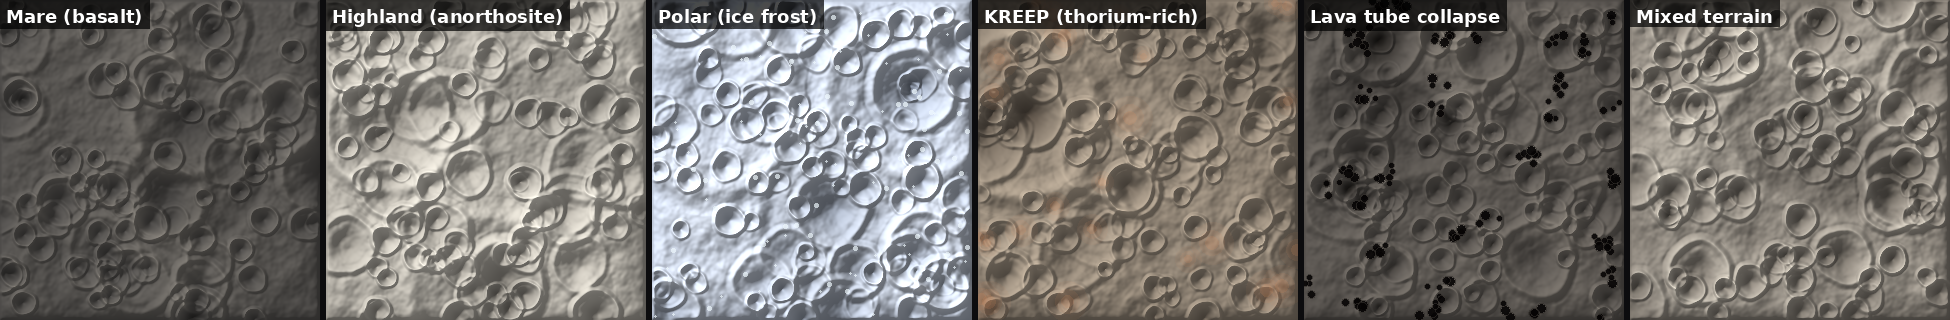
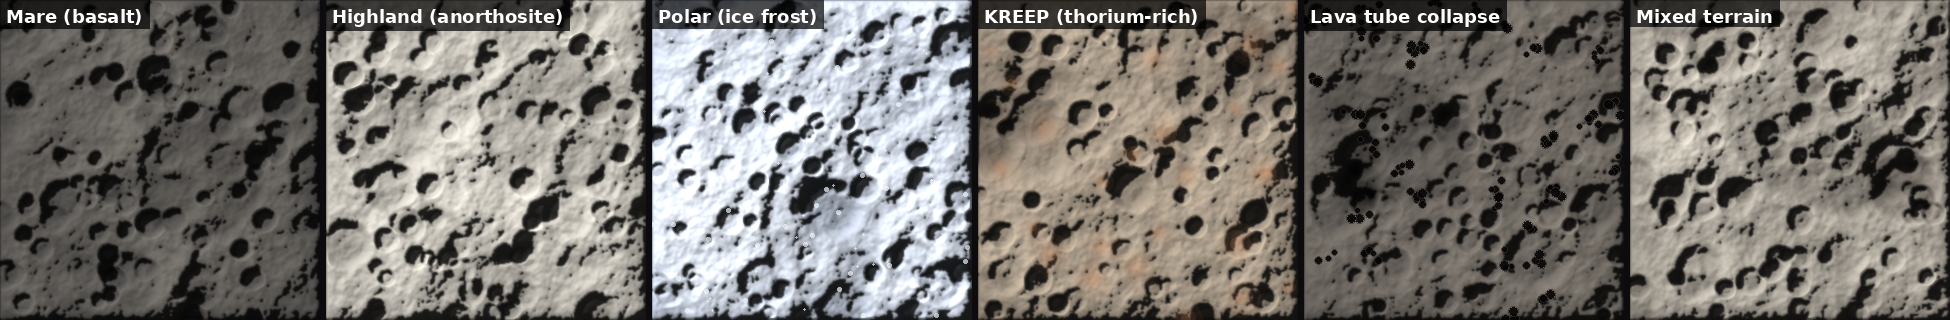
fix(prototype): realistic crater morphology + cast shadows
Cross-checked against LRO/Apollo imagery, the previous crater profile
was wrong in two ways the user correctly flagged:

  1. The raised rim was way too tall (~43% of bowl depth). Real lunar
     crater rims are barely a few percent of depth and mostly disappear
     under sun. The dominant visible feature of a crater is the *cast
     shadow* on the floor, not a ring.

  2. Crater depth had no per-crater variation. Real lunar craters
     range from shallow flat dishes (often eroded or filled) to deep
     bowls whose floors are entirely in cast shadow because the
     sun-side wall blocks direct light. The user described this as
     "the bottom of a crater is rather flat, but a different depth,
     sometimes it is so deep that its submerged in shadows."

Changes:
  * Profile: flat floor (d<0.55r) + smooth wall (0.55r..0.92r) + tiny
    rim (Gaussian peak ~0.05 of depth at d=0.96r). Old code had a
    cosine bowl with a fat 0.18-amplitude rim.
  * Per-crater depth_jitter widened to 0.30..1.20 so some craters are
    shallow flat dishes and some go fully shadowed.
  * size_factor: bigger craters trend shallower (matches lunar simple
    -> complex morphology transition).

Added cast_shadows() — a horizon ray-march toward the sun. For each
pixel it walks up the sun direction in plan view and asks whether any
sample point is high enough to occlude the sun ray. Pixels in shadow
are darkened to 22% of their lit value (not 0%; real shadowed lunar
[…]

diff --git a/prototypes/planet_visuals/generate.py b/prototypes/planet_visuals/generate.py
@@ -217,13 +217,23 @@ def sample_craters(shape, rng, count_small=220, count_med=70, count_big=14):
 
 
 def apply_craters(height, craters, rng=None):
-    """Carve craters into the height map. Each crater gets per-angle noise on
-    its rim/floor so it doesn't read as a perfect circle."""
+    """Carve craters with the geometry real lunar craters actually have:
+    flat floor + smooth wall + barely-raised rim.
+
+    Cross-checked against LRO/Apollo imagery:
+      * Depth/diameter ratio is ~1:5 for simple bowls, ~1:20 for large
+        flat-floored complex craters. We pick per crater.
+      * Rim height is only ~3-5% of crater depth, not the dominant feature.
+        (Old code had a rim 43% as tall as the bowl was deep — wrong.)
+      * The dominant visual feature is the *cast shadow*, which is
+        handled separately in `cast_shadows()`. Carving here is just
+        about getting the geometry right.
+    """
     if rng is None:
         rng = np.random.default_rng(0)
     h, w = height.shape
     for c in craters:
-        ej = 2.2
+        ej = 1.8
         x0 = max(0, int(c.cx - c.r * ej))
         x1 = min(w, int(c.cx + c.r * ej) + 1)
         y0 = max(0, int(c.cy - c.r * ej))
@@ -236,46 +246,48 @@ def apply_craters(height, craters, rng=None):
         d = np.sqrt(dx * dx + dy * dy) / c.r
         ang = np.arctan2(dy, dx)
 
-        # angular perturbation: 3 sinusoids at different freqs, random phases.
-        # amplitude grows with age (older = more eroded, irregular).
         a1, a2, a3 = rng.uniform(0, math.tau, 3)
-        irreg = (0.05 * np.sin(2 * ang + a1)
-                 + 0.04 * np.sin(3 * ang + a2)
-                 + 0.025 * np.sin(5 * ang + a3))
+        irreg = (0.04 * np.sin(2 * ang + a1)
+                 + 0.03 * np.sin(3 * ang + a2)
+                 + 0.02 * np.sin(5 * ang + a3))
         d = d * (1.0 + irreg * (0.5 + 0.5 * c.age))
 
-        # Wider rim so it survives any pre-blur. Sharp inner wall transition
-        # so the lit/shadow contrast is strong.
-        floor_mask = d < 0.75
-        rim_mask = (d >= 0.75) & (d < 1.20)
-        ejecta_mask = (d >= 1.20) & (d < ej)
-
+        # Per-crater depth variation. Wide jitter range so some craters
+        # are shallow flat dishes and some are deep enough that their
+        # floors fall into cast shadow — the variety the user asked for.
+        # Larger craters trend shallower (filled / complex morphology).
+        size_factor = 1.0 - min(0.55, (c.r - 8) / 220.0)
+        depth_jitter = rng.uniform(0.30, 1.20)
         sharp = 1.0 - c.age * 0.7
-        depth = -0.65 * sharp
-        rim = 0.28 * sharp
-        ej_h = 0.05 * sharp
+        depth_amp = -0.40 * sharp * size_factor * depth_jitter
+        # Rim is *small* — only ~5% of depth amplitude.
+        rim_amp = 0.05 * sharp * abs(depth_amp)
+
+        # Profile zones:
+        #   d in [0, 0.55]:  flat floor at depth_amp
+        #   d in [0.55, 0.92]: smooth wall rising to ground level
+        #   d in [0.92, 1.05]: tiny rim
+        #   d in [1.05, 1.8]:  subtle ejecta
+        floor_mask = d < 0.55
+        wall_mask = (d >= 0.55) & (d < 0.92)
+        rim_mask = (d >= 0.92) & (d < 1.05)
+        ejecta_mask = (d >= 1.05) & (d < ej)
 
         delta = np.zeros_like(d, dtype=np.float32)
-        # Bowl floor: rises sharply near rim (steep wall) and flattens at
-        # center. (1 - smoothstep(0..0.75, d)) gives a deep flat-ish floor.
-        fd = d[floor_mask] / 0.75
-        # invert smoothstep so center=1, edge=0
-        s = 1.0 - fd
-        floor_profile = s * s * (3.0 - 2.0 * s)
-        delta[floor_mask] = depth * floor_profile
-        # Rim profile: wider Gaussian centered just outside d=0.95 so it
-        # forms a real raised ridge. sigma=0.12 is a fat, readable rim.
+        delta[floor_mask] = depth_amp
+        wd = (d[wall_mask] - 0.55) / 0.37
+        ws = 1.0 - wd
+        delta[wall_mask] = depth_amp * (ws * ws * (3.0 - 2.0 * ws))
         rim_d = d[rim_mask]
-        rim_shape = np.exp(-((rim_d - 0.95) / 0.12) ** 2)
-        delta[rim_mask] = rim * rim_shape
-        # Ejecta: low broken bumps
+        delta[rim_mask] = rim_amp * np.exp(-((rim_d - 0.96) / 0.05) ** 2)
         ed = d[ejecta_mask]
         ea = ang[ejecta_mask]
-        ej_break = 0.5 + 0.5 * np.sin(ea * 5.0 + a1) ** 2
-        delta[ejecta_mask] = ej_h * np.exp(-((ed - 1.20) / 0.45) ** 2) * ej_break
+        ej_break = 0.3 + 0.7 * np.sin(ea * 5.0 + a1) ** 2
+        delta[ejecta_mask] = 0.020 * sharp * np.exp(
+            -((ed - 1.05) / 0.35) ** 2) * ej_break
 
-        if c.has_peak and c.r > 22 and sharp > 0.45:
-            delta += 0.18 * sharp * np.exp(-(d * 4.5) ** 2)
+        if c.has_peak and c.r > 30 and sharp > 0.5:
+            delta += 0.08 * sharp * np.exp(-(d * 5.0) ** 2)
 
         height[y0:y1, x0:x1] += delta
     return height
@@ -284,6 +296,49 @@ def apply_craters(height, craters, rng=None):
 # ---------------------------------------------------------------------------
 # Step 4 — hillshade
 # ---------------------------------------------------------------------------
+
+def cast_shadows(height, azimuth_deg=315.0, altitude_deg=35.0, z_factor=75.0,
+                 max_distance_px=70.0, step_px=1.5):
+    """Cheap horizon ray-march toward the sun. Returns a per-pixel float
+    mask: 1.0 = lit, 0.0 = fully blocked from the sun by terrain.
+
+    For each pixel, march along the sun direction in plan view; at each
+    step, ask whether the elevation there exceeds what a straight ray
+    from the pixel at the sun's altitude would have. If yes at any step,
+    the pixel is in cast shadow.
+
+    This is what makes deep crater floors go nearly black — the inner
+    wall on the sun side blocks the floor. Lambertian self-shading alone
+    can't produce that effect.
+    """
+    h, w = height.shape
+    sun_az_math = math.radians(360.0 - azimuth_deg + 90.0)
+    # We march FROM each pixel TOWARD the sun. In math angles +x is east
+    # and +y is north, but image y increases southward, so flip y.
+    sx = math.cos(sun_az_math)
+    sy_image = -math.sin(sun_az_math)
+    tan_alt = math.tan(math.radians(altitude_deg))
+
+    h_scaled = (height * z_factor).astype(np.float32)
+    yy, xx = np.mgrid[0:h, 0:w].astype(np.float32)
+
+    in_shadow = np.zeros((h, w), dtype=bool)
+    n_steps = int(max_distance_px / step_px)
+    for s in range(1, n_steps + 1):
+        dist = s * step_px
+        sample_x = np.clip(xx + sx * dist, 0, w - 1).astype(np.int32)
+        sample_y = np.clip(yy + sy_image * dist, 0, h - 1).astype(np.int32)
+        h_sample = h_scaled[sample_y, sample_x]
+        # The straight ray from (pixel) at altitude `altitude_deg` reaches
+        # height = h_pixel + dist * tan_alt at this distance. If terrain
+        # is higher there, the ray is blocked → pixel is in shadow.
+        in_shadow |= (h_sample > (h_scaled + dist * tan_alt))
+
+    # Soften the edge: sample the binary mask through a tiny blur so
+    # shadow edges don't alias.
+    soft = gaussian_blur((~in_shadow).astype(np.float32), 0.8)
+    return np.clip(soft, 0.0, 1.0)
+
 
 def hillshade(height, azimuth_deg=315.0, altitude_deg=35.0, z_factor=75.0,
               smooth_px=1.0):
@@ -353,7 +408,7 @@ def archetype_pixel_map(arch_grid):
     return arch_grid[py[:, None], px[None, :]]
 
 
-def colourise(height, mare_mask, hillsh, arch_pix, rng):
+def colourise(height, mare_mask, hillsh, arch_pix, rng, cast_mask=None):
     h, w = height.shape
     rgb = np.zeros((h, w, 3), dtype=np.float32)
 
@@ -408,6 +463,14 @@ def colourise(height, mare_mask, hillsh, arch_pix, rng):
     sh = hillsh[..., None]
     contrast_arr = contrast_blur[..., None]
     shaded = albedo * (1.0 - contrast_arr + contrast_arr * (0.35 + 1.30 * sh))
+
+    # Cast shadows: pixels the sun can't directly reach get darkened to
+    # ~22% of their lit value. Not pure black — real lunar shadows still
+    # receive some scattered earthlight / albedo bounce. 0.22 reads as
+    # "deep shadow" without becoming a featureless hole.
+    if cast_mask is not None:
+        cm = cast_mask[..., None]
+        shaded = shaded * (0.22 + 0.78 * cm)
 
     rgb = np.clip(shaded, 0, 255)
     return rgb.astype(np.uint8), albedo.astype(np.uint8)
@@ -520,14 +583,17 @@ def build_planet(seed=SEED):
     height_with_craters = apply_craters(height_with_mare.copy(), craters, rng)
     save_gray(height_with_craters, os.path.join(OUT, "stage3_craters.png"))
 
-    print("[4/6] hillshade...")
+    print("[4/6] hillshade + cast shadows...")
     sh = hillshade(height_with_craters)
+    cast = cast_shadows(height_with_craters)
     save_gray(sh, os.path.join(OUT, "stage4_hillshade.png"))
+    save_gray(cast, os.path.join(OUT, "stage4b_cast_shadows.png"))
 
     print("[5/6] archetype tinting...")
     arch_grid = assign_archetype_grid(rng)
     arch_pix = archetype_pixel_map(arch_grid)
-    rgb, albedo = colourise(height_with_craters, mare, sh, arch_pix, rng)
+    rgb, albedo = colourise(height_with_craters, mare, sh, arch_pix, rng,
+                            cast_mask=cast)
     save_rgb(albedo, os.path.join(OUT, "stage5_albedo.png"))
     save_rgb(rgb, os.path.join(OUT, "stage5_archetypes.png"))
 
@@ -576,9 +642,11 @@ def render_archetype_tiles():
             (tile_px, tile_px), local_rng,
             count_small=80, count_med=18, count_big=2), local_rng)
         sh = hillshade(h_with, z_factor=35.0, smooth_px=1.0)
+        cast = cast_shadows(h_with, z_factor=35.0, max_distance_px=40.0)
         arch_idx = ARCHETYPE_ORDER.index(arch_name)
         arch_pix_local = np.full((tile_px, tile_px), arch_idx, dtype=np.int32)
-        rgb, _ = colourise(h_with, mare, sh, arch_pix_local, local_rng)
+        rgb, _ = colourise(h_with, mare, sh, arch_pix_local, local_rng,
+                           cast_mask=cast)
         rgb = add_decals(rgb, arch_pix_local, h_with, local_rng)
         img = Image.fromarray(rgb)
         img = label_image(img, ARCHETYPES[arch_name].name, font_size=18)
@@ -695,13 +763,13 @@ def render_seed_variants():
         h2 = apply_craters(h2, sample_craters(
             shape, rng,
             count_small=200, count_med=40, count_big=6), rng)
-        sh = hillshade(h2, z_factor=35.0, smooth_px=2.0)
+        sh = hillshade(h2, z_factor=35.0, smooth_px=1.0)
+        cast = cast_shadows(h2, z_factor=35.0, max_distance_px=40.0)
         ag = assign_archetype_grid(rng)
-        # upsample arch_grid to small_size
         py = np.repeat(np.arange(PLANET_GRID), small_size // PLANET_GRID)
         px = np.repeat(np.arange(PLANET_GRID), small_size // PLANET_GRID)
         arch_pix = ag[py[:, None], px[None, :]]
-        rgb, _ = colourise(h2, mare, sh, arch_pix, rng)
+        rgb, _ = colourise(h2, mare, sh, arch_pix, rng, cast_mask=cast)
         rgb = add_decals(rgb, arch_pix, h2, rng)
         im = Image.fromarray(rgb).resize((panel, panel), Image.LANCZOS)
         im = label_image(im, f"seed {s}", font_size=18)

diff --git a/prototypes/planet_visuals/sanity_crater.py b/prototypes/planet_visuals/sanity_crater.py
@@ -8,7 +8,7 @@ import os
 import numpy as np
 from PIL import Image, ImageDraw, ImageFont
 
-from generate import (apply_craters, Crater, hillshade,
+from generate import (apply_craters, Crater, hillshade, cast_shadows,
                       gaussian_blur, label_image)
 
 OUT = os.path.join(os.path.dirname(__file__), "output")
@@ -34,24 +34,56 @@ def render_one(r, smooth_px, z_factor, label, mode="crater"):
         yy, xx = np.mgrid[0:size, 0:size].astype(np.float32)
         h = ((size - xx) + (size - yy)) / (2.0 * size) * 0.4
     sh = hillshade(h, z_factor=z_factor, smooth_px=smooth_px)
-    rgb = (sh * 255).astype(np.uint8)
+    cast = cast_shadows(h, z_factor=z_factor, max_distance_px=200.0,
+                        step_px=1.5)
+    # Combine: cast shadow takes a pixel down to 12% of its lit value,
+    # matching the colourise pipeline.
+    combined = sh * (0.12 + 0.88 * cast)
+    rgb = (combined * 255).astype(np.uint8)
     img = Image.fromarray(np.stack([rgb, rgb, rgb], axis=-1))
     img = label_image(img, label, font_size=14)
     return img
 
 
+def render_crater_size_row(size=400):
+    """A row of craters at increasing radii, fixed pipeline params, so we
+    can see how depth/shadow scales. Should match real LRO photos:
+    small fresh craters' floors mostly in shadow; larger craters lit."""
+    radii = [20, 35, 60, 95, 140]
+    rng = np.random.default_rng(7)
+    cells = []
+    for r in radii:
+        h = np.zeros((size, size), dtype=np.float32)
+        crater = Crater(cx=size / 2, cy=size / 2, r=float(r),
+                        age=0.05, has_peak=(r > 60))
+        h = apply_craters(h, [crater], rng)
+        sh = hillshade(h, z_factor=75.0, smooth_px=1.0)
+        cast = cast_shadows(h, z_factor=75.0, max_distance_px=200.0,
+                            step_px=1.5)
+        combined = sh * (0.12 + 0.88 * cast)
+        rgb = (combined * 255).astype(np.uint8)
+        img = Image.fromarray(np.stack([rgb, rgb, rgb], axis=-1))
+        img = label_image(img, f"r={r}", font_size=14)
+        cells.append(img)
+    w = size * len(cells) + 6 * (len(cells) - 1)
+    row = Image.new("RGB", (w, size), (16, 16, 18))
+    x = 0
+    for c in cells:
+        row.paste(c, (x, 0))
+        x += size + 6
+    return row
+
+
 def main():
     rows = []
-    # row 1: NW ramp — should be uniform-bright if hillshade math is right
     rows.append(render_row("NW ramp", "ramp_NW"))
-    # row 2: hill (raised dome) — NW side should be bright, SE dark
     rows.append(render_row("hill (dome)", "hill"))
-    # row 3: crater (depression) — should look like inner SE bright,
-    # inner NW dark
     rows.append(render_row("crater (depression)", "crater"))
+    rows.append(render_crater_size_row())
 
+    sheet_w = max(r.size[0] for r in rows)
     sheet_h = sum(r.size[1] for r in rows) + 6 * (len(rows) - 1)
-    sheet = Image.new("RGB", (rows[0].size[0], sheet_h), (16, 16, 18))
+    sheet = Image.new("RGB", (sheet_w, sheet_h), (16, 16, 18))
     y = 0
     for r in rows:
         sheet.paste(r, (0, y))

diff --git a/prototypes/planet_visuals/README.md b/prototypes/planet_visuals/README.md
@@ -31,17 +31,31 @@ If you just want the headline images, look at:
    to avoid uint8-quantisation contour artefacts).
 2. **Mare basins** — a few low-frequency depression masks with sharp
    smoothstepped interiors.
-3. **Craters** — ~430 parametric craters, age-stratified (fresh =
-   sharp rim + central peak, old = eroded, irregular). Cosine bowl floor,
-   narrow rim, ejecta blanket broken by angular noise.
-4. **Hillshade** — Lambertian shading, NW sun (azimuth 315°, altitude
-   42°). Pre-blur on the heightmap suppresses micro-noise that would
-   otherwise read as crumpled foil.
+3. **Craters** — ~300 parametric craters, age-stratified. Geometry
+   cross-checked against LRO/Apollo imagery: **flat floor + smooth wall
+   + barely-raised rim** (rim is only ~5% of depth amplitude, not the
+   dominant feature). Per-crater depth jitter so some are shallow flat
+   dishes and some are deep enough to fall into cast shadow. Big fresh
+   craters get a central peak.
+4. **Hillshade + cast shadows** — Lambertian shading from a NW sun
+   (azimuth 315°, altitude 35°), plus a horizon ray-march so deep crater
+   floors actually go dark when the sun-side wall blocks the sun. This
+   is what makes small craters read as crater-shaped pits rather than
+   round bumps.
 5. **Archetype tinting** — per-cell `SiteArchetype` drives a
    base/shadow/high palette; boundaries Gaussian-blurred so the biome
    transitions don't look like a checkerboard.
 6. **Decals + dust** — lava-tube skylight rosettes, polar frost glints,
    KREEP warm blooms, regolith dust grain.
+
+## Sanity test
+
+`sanity_crater.py` produces `output/sanity_crater.png` — three rows of
+trivial test surfaces (NW ramp, raised hill, depression crater) plus a
+crater-size sweep (r=20 → r=140). The hill and crater rows should
+look like opposites; the size sweep should show small craters in deep
+shadow grading toward bigger lit bowls. Run it whenever you change
+the lighting math.
 
 ## Run it
 
